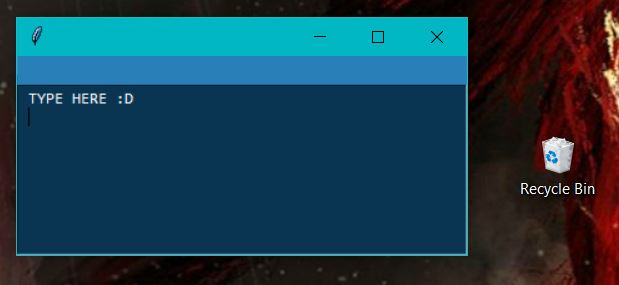
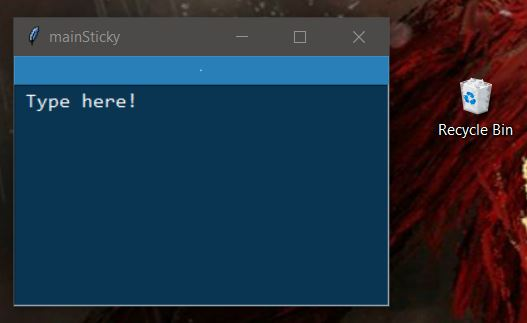
Create required files and folders if non-existent
Allows for an easier installation as it will use the absolute path of StickyNoteWidget.py's location rather than require an Environment Variable. StickyNotes now also have IDs (their titles), which isn't too relevant yet as there is no easy way to create multiple StickyNotes.

diff --git a/StickyNoteWidget.py b/StickyNoteWidget.py
@@ -1,39 +1,57 @@
 import tkinter as tk
-from os import environ
+from os import path, makedirs
 from datetime import datetime as date
 
 
 class StickyNoteWidget:
-    def __init__(self, parent):
+    def __init__(self, parentWindow, title):
 
-        self.parent = parent
+        self.parentWindow = parentWindow
         self.settings = {}
 
-        # make title empty (default is "tk")
-        self.parent.title('')
+        self.parentWindow.title(title)
 
-        # extract StickyNoteWidget directory from Environment Variables. Use this template to pinpoint the directory of every file.
-        directoryTemplate = environ['StickyNoteWidgetData'] + 'textFiles/1/{}'
+        # absolute path of StickyNoteWidget.py + "/StickyNotes/" + title
+        # Use this template to pinpoint the directory of every file.
+        parentDir = path.dirname(path.abspath(__file__)) + "/StickyNotes/" + title
 
         # date.today().isoweekday() will return today's day of the week as an integer. Monday is 1, Tuesday is 2...
-        self.backupToday = directoryTemplate.format('backup' + str(date.today().isoweekday()) + '.txt')
+        self.backupToday = parentDir + '/backup' + str(date.today().isoweekday()) + '.txt'
 
-        self.ramFile = directoryTemplate.format('ram.txt')
-        self.configFile = directoryTemplate.format('config.txt')
-        self.immConfigFile = directoryTemplate.format('immutableConfig.txt')
+        self.ramFile = parentDir + '/ram.txt'
+        self.configFile = parentDir + '/config.txt'
+        self.immConfigFile = parentDir + '/immutableConfig.txt'
+
+        # if this specific StickyNote does not yet exist, create it. If the StickyNotes subfolder happens to not exist either, create that as well
+        if not path.exists(parentDir):
+            makedirs(parentDir)
+
+        # if the ram file doesn't exist, create it
+        if not path.exists(self.ramFile):
+            with open(self.ramFile, 'w') as ramF:
+                ramF.write("Type here!")
+
+        # if either config or immConfig doesn't exist, reset both
+        if not (path.exists(self.configFile) and path.exists(self.immConfigFile)):
+            with open(self.immConfigFile, 'w') as immConfigF:
+                immConfigF.write("# Settings\n\nbgColor: #093553\nbarColor: #2980B9\n\nfontColor: White\nfontFamily: Consolas\nfontSize: 12\nfontWeight: normal\n\n\n# set these to 0 if adjusting the window's spawn location isn't necessary\nxAdjust: -8\nyAdjust: -31\n\n# if unsure, leave at false\nORR: false")
+
+            with open(self.configFile, 'w') as configF:
+                configF.write("300x200+100+100")
+        
 
         # includes all settings: dimensions, location, fontSize, etc.
         self.readSettings()
 
         # set window's dimensions and location
-        self.parent.geometry(self.settings['geo'])
+        self.parentWindow.geometry(self.settings['geometry'])
 
         # a frame with no widgets attached. Provides the extra bar under the titlebar.
-        aestheticFrame = tk.Frame(root)  
+        aestheticFrame = tk.Frame(parentWindow)  
         aestheticFrame.pack(pady=11)
 
         # set the color of aestheticFrame
-        self.parent.configure(background=self.settings['barColor'])
+        self.parentWindow.configure(background=self.settings['barColor'])
         
         # create Text widget
         self.textBox = tk.Text(root,
@@ -53,28 +71,28 @@ class StickyNoteWidget:
 
         self.readTextData()
 
-        # `ORR == True`` will result in no Windows title bar. This perhaps has better aesthetic but makes the window impossible to move and difficult to close (requires the use of "End Task" in Task Manager).
-        self.parent.overrideredirect(self.settings['ORR'])
+        # `ORR == True` will result in no Windows title bar. This perhaps has better aesthetic but makes the window impossible to move and difficult to close (requires the use of "End Task" in Task Manager).
+        self.parentWindow.overrideredirect(self.settings['ORR'])
 
-        # Autosave constantly. `q` is a filler variable; never used.
+        # Autosave constantly. `q` is a required filler variable; never used.
         self.textBox.bind('<KeyRelease>', lambda q: self.saveData())
 
         # Upon user clicking `X`, save the file before closing the window
-        self.parent.protocol('WM_DELETE_WINDOW', lambda: [self.saveData(), root.destroy()])
+        self.parentWindow.protocol('WM_DELETE_WINDOW', lambda: [self.saveData(), root.destroy()])
 
 
     def readTextData(self):
-        with open(self.ramFile, 'r') as ram:
-            self.textBox.insert(tk.INSERT, ram.read()[:-1])
+        with open(self.ramFile, 'r') as ramF:
+            self.textBox.insert(tk.INSERT, ramF.read())
             # -1 is to omit the extra line the program adds
 
 
     def readSettings(self):
-        with open(self.configFile, 'r') as config:
-            self.settings["geo"] = config.read().strip()
+        with open(self.configFile, 'r') as configF:
+            self.settings["geometry"] = configF.read().strip()
 
-        with open(self.immConfigFile, 'r') as immc:
-            for row in immc:
+        with open(self.immConfigFile, 'r') as immConfigF:
+            for row in immConfigF:
                 if row[0] not in ['#', '\n']:
                     x = row.split()
                     self.settings[x[0][:-1]] = x[1]
@@ -83,12 +101,12 @@ class StickyNoteWidget:
     def saveData(self):
         for file in [self.backupToday, self.ramFile]:
             with open(file, 'w') as f:
-                f.write(self.textBox.get('1.0', tk.END))
+                f.write(self.textBox.get('1.0', 'end-1c'))
 
         # save dimensions and location in a specific format (`315x330+467+388`) so as to be easily reused as an argument in self.parent.geometry() upon reopening StickyNoteWidget
         # xAdjust and yAdjust circumvent geometry glitches
-        with open(self.configFile, 'w') as config:
-            config.write(
+        with open(self.configFile, 'w') as configF:
+            configF.write(
                 '{}x{}+{}+{}'.format(
                     str(root.winfo_width()), 
                     str(root.winfo_height()),
@@ -103,6 +121,6 @@ class StickyNoteWidget:
 if __name__ == "__main__":
     root = tk.Tk()
 
-    StickyNoteWidget(root)
+    StickyNoteWidget(root, "mainSticky")
 
     root.mainloop()

diff --git a/README.md b/README.md
@@ -6,20 +6,21 @@ A virtual sticky note to be placed on a Windows desktop using Python's Tkinter m
 </p>
 
 ## What's New?
-- Fixed the code's _style_ to something more readable. Includes making comments more insightful, better whitespace usage, etc. Also changed the names of several files, mostly removing underscores in favor of CamelCase.
+- Creates the necessary files if they do not exist yet and no longer requires the use of the pesky _Environment Variable_. All makes for a more streamlined installation process.
+- Gave StickyNotes an ID: their title. No functional differences yet other than a change in the window's title and a reworked folder system.
 
 ## Old Changes
+- Fixed the code's _style_ to something more readable. Includes making comments more insightful, better whitespace usage, etc. Also changed the names of several files, mostly removing underscores in favor of CamelCase.
 - Converted StickyNoteWidget from a Procedural Program into an Object-Oriented Program (OOP). This will streamline debugging, adding new features, updating the code style, etc. _Does not change functionality._
 
 ## How to Install
-1. Ensure Python is installed along with the Tkinter library, which is typically included by default.
-2. Create an _Environment Variable_ called `StickyNoteWidgetData`. Its value should be the location of the folder where both `StickyNoteWidget.py` and `textFiles` are stored. For example, your value may be: `C:/Users/NAME/Desktop/widgets/StickyNoteWidget/`. 
-**Must be forward slashes, not back slashes. Must end in a forward slash.**
+1. Ensure Python is installed along with the Tkinter library (typically included by default).
+2. Enjoy!
 
 ## Features
 - Automatically saves text, size, and location of window upon typing or clicking the `X` button. No need to manually save.
 - Automatically saves a backup for each day of the week, 7 backups in total.
-- Easily change attributes such as font size in `textFiles/1/immutableConfig.txt`.
+- Easily change attributes such as font size in `StickyNotes/NAME/immutableConfig.txt`.
 
 <p align="center">
   <img src="images/attributeChangeExample.JPG" alt="Example of changed attributes">
@@ -28,9 +29,7 @@ A virtual sticky note to be placed on a Windows desktop using Python's Tkinter m
 ## Known Issues
 - Cannot handle certain characters well, such as emojis
 - Cannot boldface, italics, etc. for specific snippets of text. It's either all or nothing.
-- Cannot change color of the cursor (it stays black).
 - Spawns a useless black box (Python's terminal window) if opening outside the context of an IDE.
 - Text may not wrap around the window properly.
 - The x and y attributes slightly save the location of the window incorrectly, only solved with `xAdjust` and `yAdjust` in `immutableConfig.txt`.
 - Putting the widget into `ORR mode` renders it impossible to move or close through normal methods; requires ending the task manually in task manager.
-- An extremely rare glitch can occur where the window will spawn outside the bounds of the desktop screen, resulting in it being inaccessible. Fixing this requires one to change the location of the file manually in `config.txt` to something manageable such as `451x257+213+202`.
